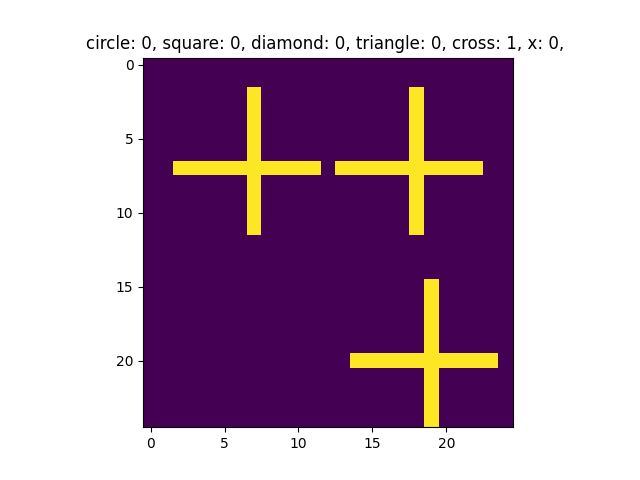
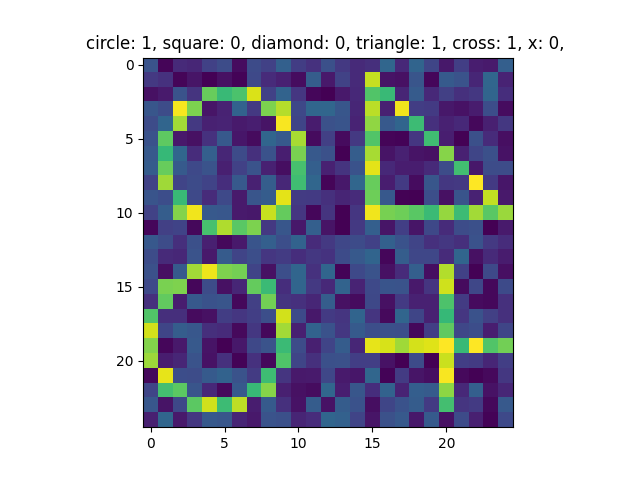
mult lr noise

diff --git a/multi_lr/data.py b/multi_lr/data.py
@@ -84,7 +84,7 @@ def gen_data(s=10, N=100):
                 photo[14+x_offset:14+s+x_offset, 1+y_offset:1+s+y_offset] = shape
             if q == 3:
                 photo[14+x_offset:14+s+x_offset, 14+y_offset:14+s+y_offset] = shape
-
+        photo = photo + np.random.randint(size=(S, S), low=0, high=100) / 200
         # num_shapes, 
         label = list(flags)
         label.append(num_shape)
